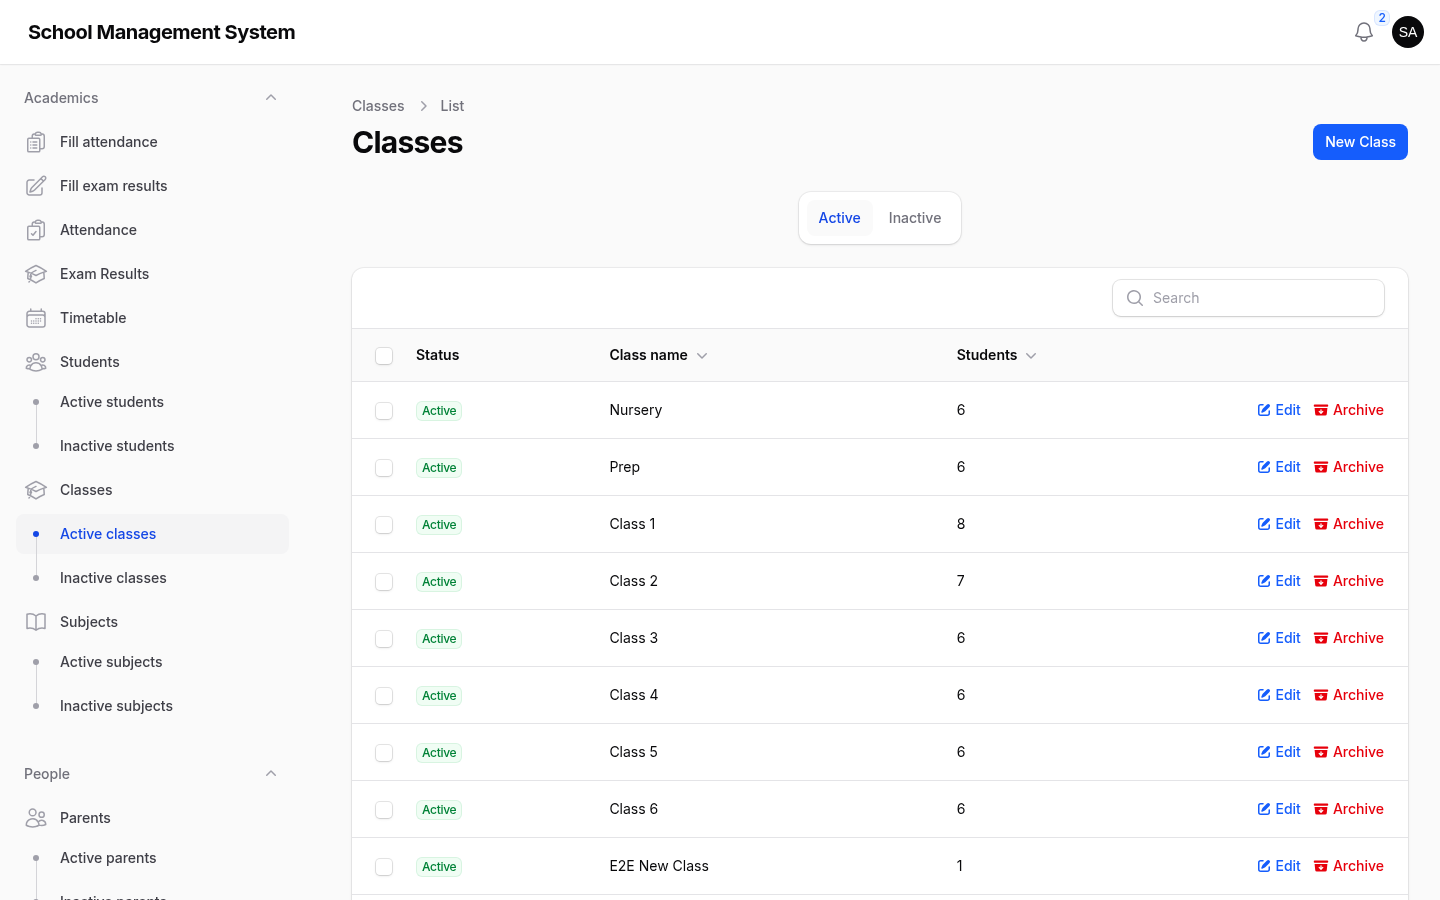
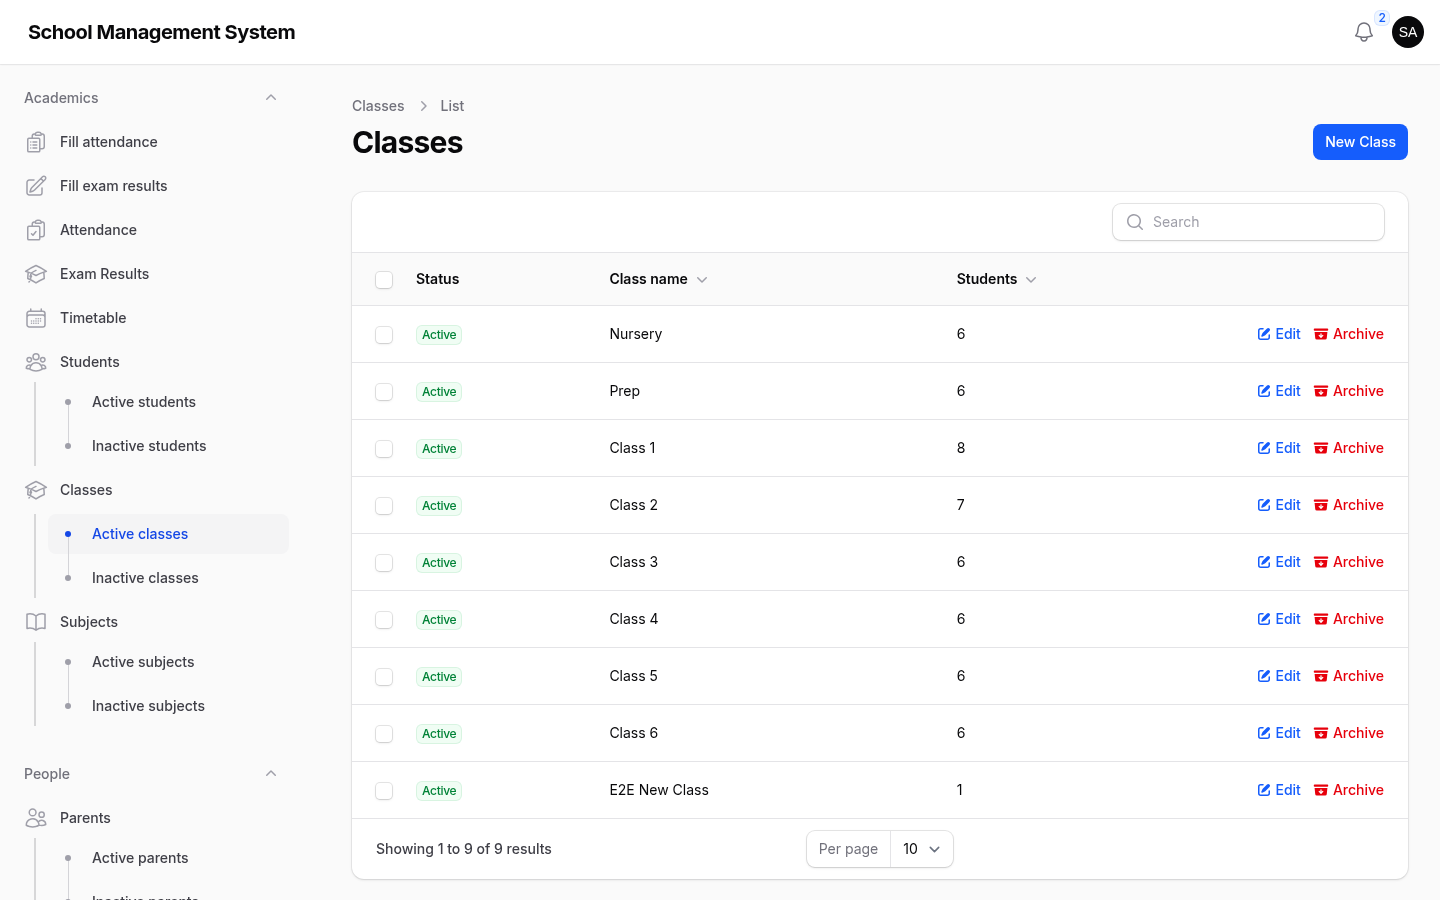
style: indent sidebar accordion children under their parent ledgers

diff --git a/app/Providers/Filament/AdminPanelProvider.php b/app/Providers/Filament/AdminPanelProvider.php
@@ -16,11 +16,13 @@ use Filament\Pages\Dashboard;
 use Filament\Panel;
 use Filament\PanelProvider;
 use Filament\Support\Colors\Color;
+use Filament\View\PanelsRenderHook;
 use Illuminate\Cookie\Middleware\AddQueuedCookiesToResponse;
 use Illuminate\Cookie\Middleware\EncryptCookies;
 use Illuminate\Foundation\Http\Middleware\PreventRequestForgery;
 use Illuminate\Routing\Middleware\SubstituteBindings;
 use Illuminate\Session\Middleware\StartSession;
+use Illuminate\Support\HtmlString;
 use Illuminate\View\Middleware\ShareErrorsFromSession;
 
 final class AdminPanelProvider extends PanelProvider
@@ -33,6 +35,20 @@ final class AdminPanelProvider extends PanelProvider
             ->path('dashboard')
             ->authGuard('admin')
             ->login()
+            ->renderHook(
+                PanelsRenderHook::STYLES_BEFORE,
+                fn (): HtmlString => new HtmlString(<<<'HTML'
+                    <style>
+                        /* Sidebar accordions: indent the Active / Inactive
+                           children so the parent relationship is visible. */
+                        .fi-sidebar-sub-group-items {
+                            margin-left: 1.125rem;
+                            padding-left: 0.75rem;
+                            border-left: 2px solid color-mix(in oklab, currentColor 14%, transparent);
+                        }
+                    </style>
+                    HTML),
+            )
             ->navigationGroups([
                 'Academics',
                 'People',

diff --git a/app/Providers/Filament/StaffPanelProvider.php b/app/Providers/Filament/StaffPanelProvider.php
@@ -14,11 +14,13 @@ use Filament\Pages\Dashboard;
 use Filament\Panel;
 use Filament\PanelProvider;
 use Filament\Support\Colors\Color;
+use Filament\View\PanelsRenderHook;
 use Illuminate\Cookie\Middleware\AddQueuedCookiesToResponse;
 use Illuminate\Cookie\Middleware\EncryptCookies;
 use Illuminate\Foundation\Http\Middleware\PreventRequestForgery;
 use Illuminate\Routing\Middleware\SubstituteBindings;
 use Illuminate\Session\Middleware\StartSession;
+use Illuminate\Support\HtmlString;
 use Illuminate\View\Middleware\ShareErrorsFromSession;
 
 final class StaffPanelProvider extends PanelProvider
@@ -30,6 +32,20 @@ final class StaffPanelProvider extends PanelProvider
             ->path('staff')
             ->authGuard('staff')
             ->login()
+            ->renderHook(
+                PanelsRenderHook::STYLES_BEFORE,
+                fn (): HtmlString => new HtmlString(<<<'HTML'
+                    <style>
+                        /* Sidebar accordions: indent the Active / Inactive
+                           children so the parent relationship is visible. */
+                        .fi-sidebar-sub-group-items {
+                            margin-left: 1.125rem;
+                            padding-left: 0.75rem;
+                            border-left: 2px solid color-mix(in oklab, currentColor 14%, transparent);
+                        }
+                    </style>
+                    HTML),
+            )
             ->navigationGroups([
                 'Teaching',
             ])
